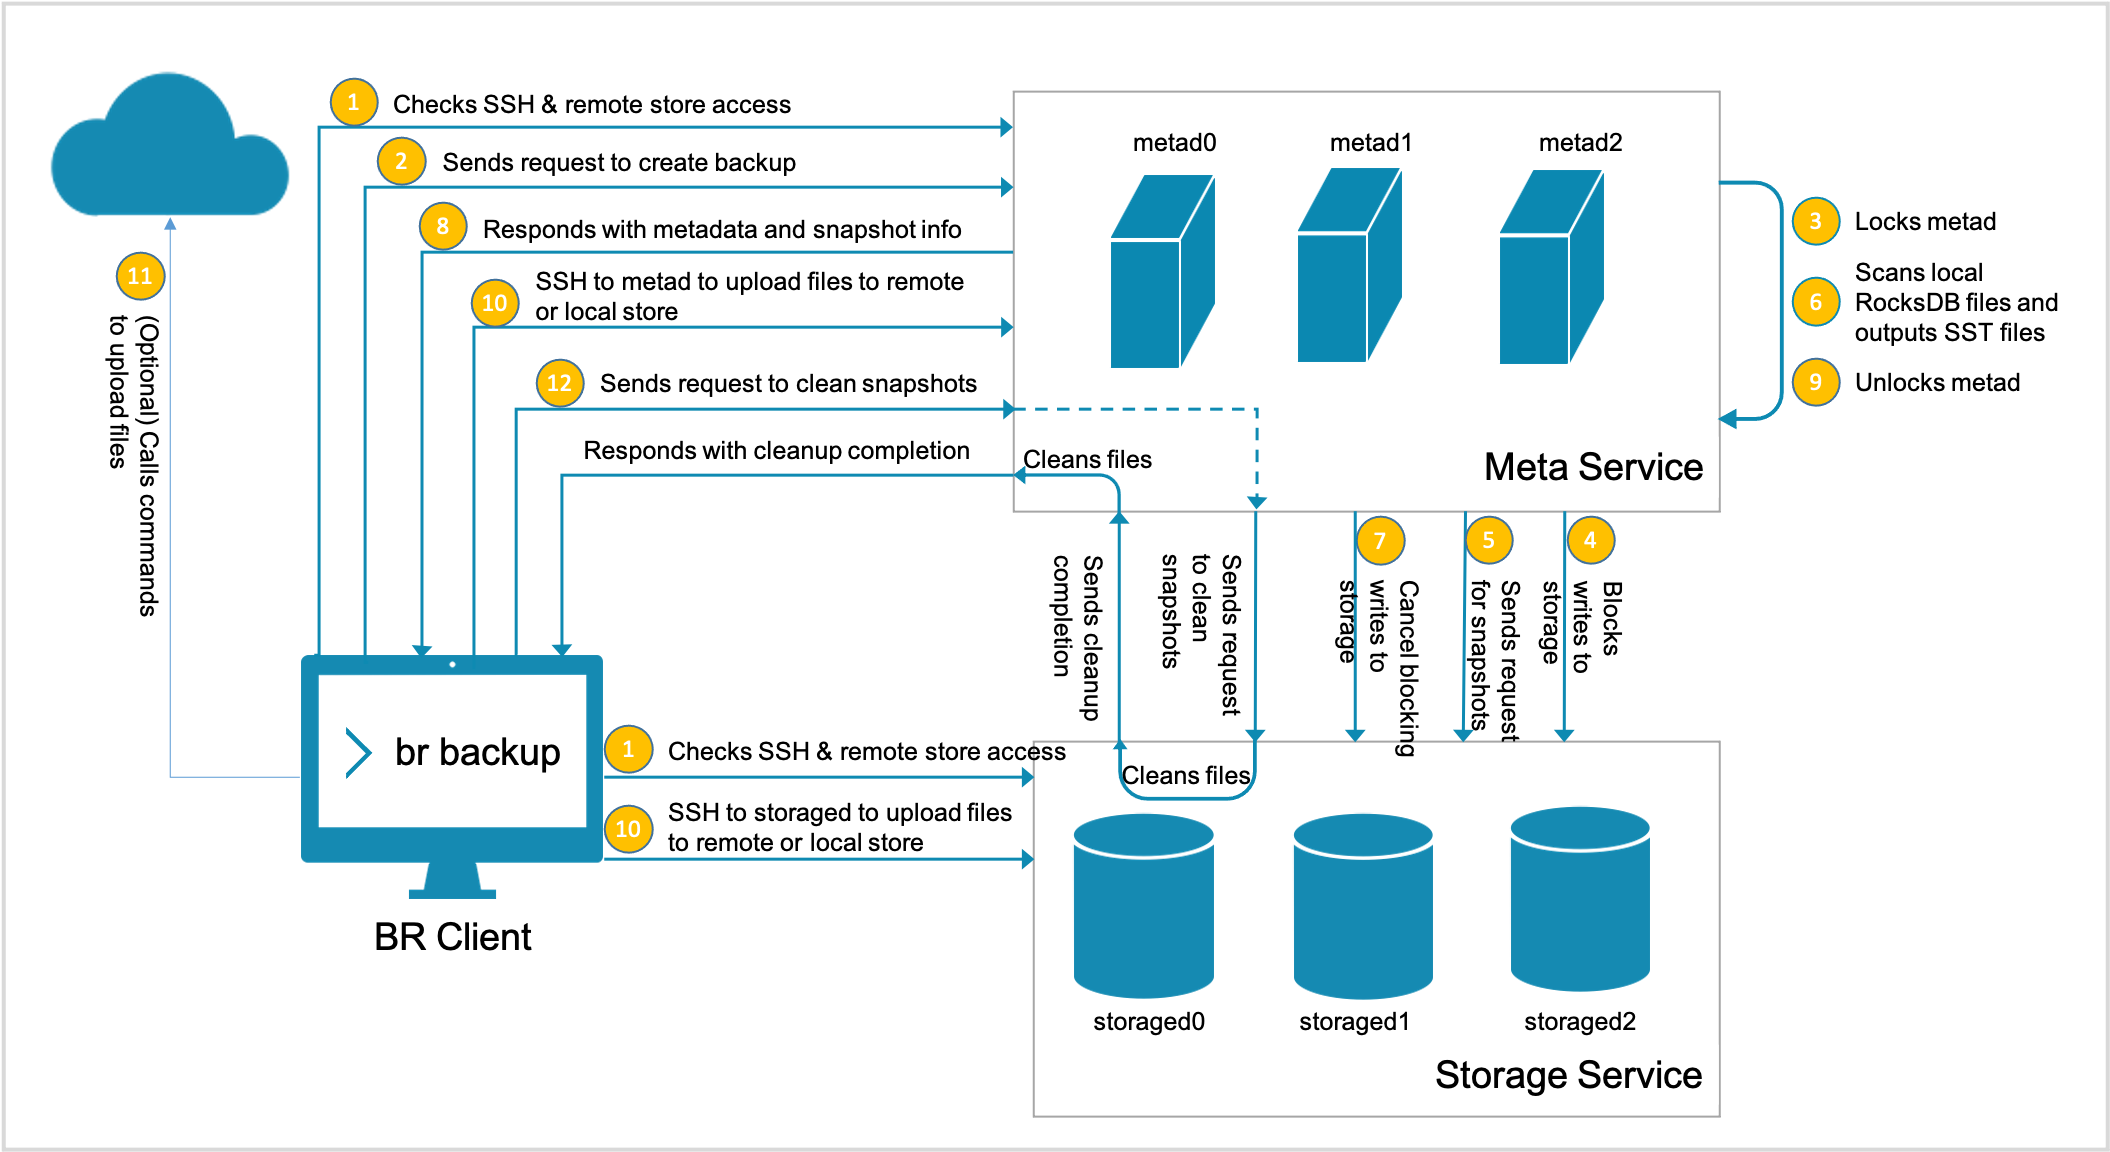
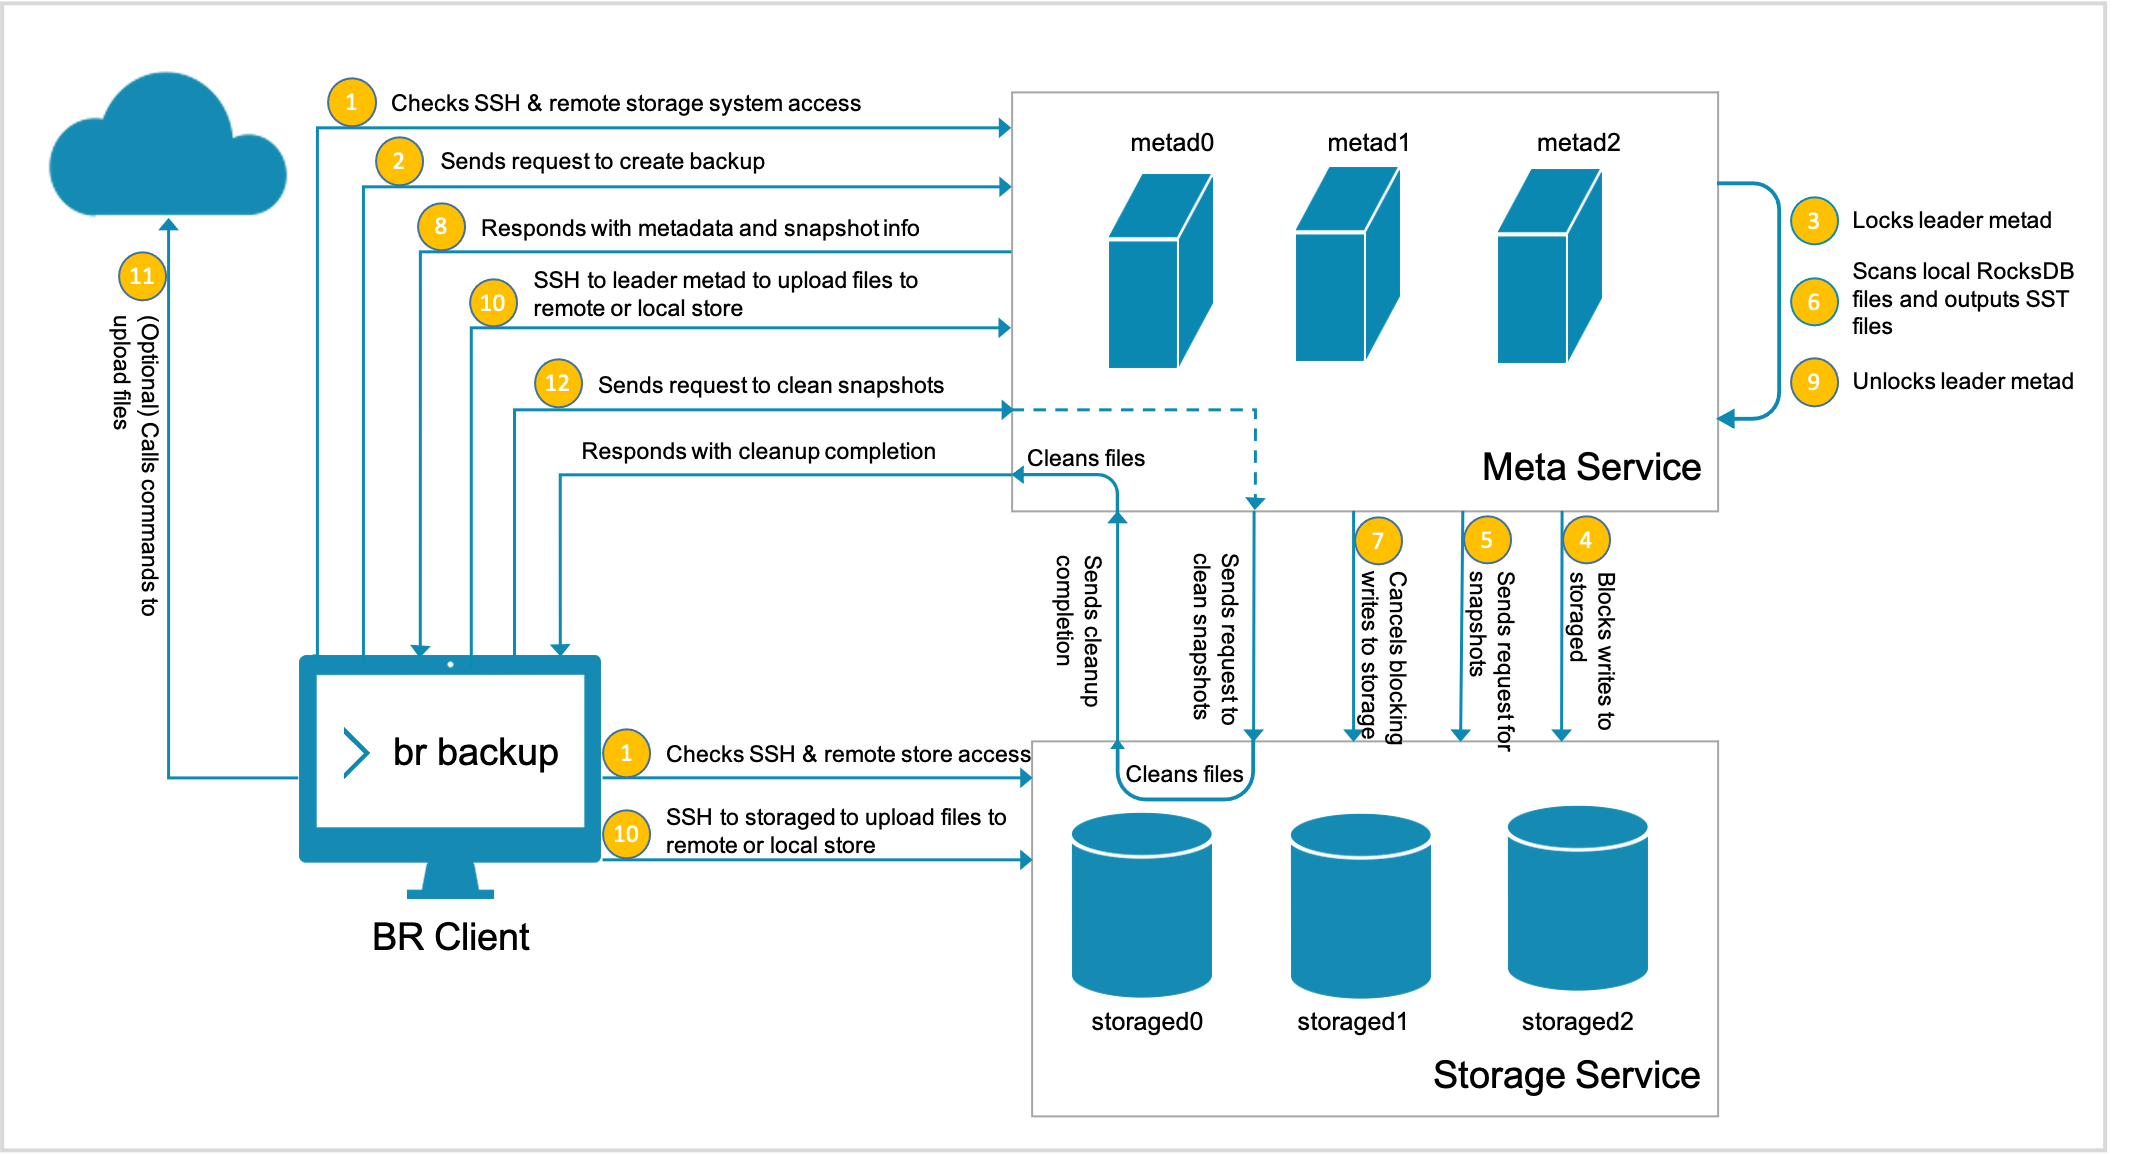
fixed monadbobo's comments

diff --git a/docs-2.0/7.data-security/2.backup-restore/1.what-is-br.md b/docs-2.0/7.data-security/2.backup-restore/1.what-is-br.md
@@ -21,6 +21,8 @@ Backup & Restore (BR in short) is a Command-Line Interface (CLI) tool for you to
 - Does not support the Nebula Graph services deployed with Docker Compose.
 
 - During the backup process, both DDL and DML statements in the specified graph spaces are blocked. We recommend that you do the operation within the low peak period of the business, for example, from 2:00 AM to 5:00 AM.
+  
+- The restoration process is performed OFFLINE.
 
 ## Implementation
 
@@ -33,30 +35,30 @@ This section introduces how backup and restoration are implemented in the BR.
 
 ### Backup
 
-To back up data, the BR sends a backup request to each metad process to trigger the backup process as follows:
+To back up data, the BR sends a backup request to the leader metad process to trigger the backup process as follows:
 
 1. The SSH login from the BR machine to the meta and the storage servers is verified. Besides, if a remote storage system such as Amazon S3 or Alibaba Cloud OSS is necessary, their client installation and configuration are verified.
 
 2. The BR sends a request to create backup files.
 
-3. The metad processes are locked.
+3. The leader metad process is locked.
    > **NOTE**: From now on, you cannot run any DDL statement of nGQL until Step 9.
 
-4. The metad processes block writing to the specified graph spaces.
+4. The leader metad process blocks writing to the specified graph spaces.
    > **NOTE**: From now on, you cannot run any DML statement of nGQL in the specified graph spaces until Step 7. But this process has no effect on the DQL statements in these graph spaces, and you can do whatever you want in other graph spaces.
 
-5. The metad processes send a request to the storaged processes for the snapshot file names.
+5. The leader metad process sends a request to the storaged processes for the snapshot file names.
 
-6. The metad processes scan local RocksDB files and output SST files.
+6. The leader metad process scans local RocksDB files and output SST files.
 
-7. The metad processes cancel blocking writing to the specified graph spaces.
+7. The leader metad process cancels blocking writing to the specified graph spaces.
    > **NOTE**: From now on, you can run DML statements in the specified graph spaces.
 
-8. The metad processes send responses to the BR with the metadata including:
+8. The leader metad process sends responses to the BR with the metadata including:
    - the thrift format, partition information of the graph spaces, and the Raft log commit ID of each partition, and
    - the snapshot information including the catalog of the snapshots of each storaged process, their SST file names of the meta server, and the backup file names.
 
-9. The metad processes are unlocked.
+9. The leader metad process is unlocked.
     > **NOTE**: From now on, you can run any DDL statement in the specified graph spaces.
 
 10. The account on the BR machine logs on via SSH to the meta server where the leader locates and to all the storage servers, and backs up files.
@@ -64,7 +66,7 @@ To back up data, the BR sends a backup request to each metad process to trigger 
 11. If Amazon S3 or Alibaba Cloud OSS is used, the BR calls commands to upload the files to the cloud storage system.
     > **NOTE**: This step causes massive disk reads. We recommend that a 10 Gigabit Network is applied. If a networking error occurs during this step, the backup process fails and you must do the backup operation again. For now, the backup process cannot be resumed from the broken point.
 
-12. The BR sends a request to clean the snapshots from meta servers and storage servers, and the backup process is done.
+12. The BR sends a request to clean the snapshots from meta server and storage servers, and the backup process is done.
   
 This figure shows how the backup is implemented.
 

diff --git a/docs-2.0/7.data-security/2.backup-restore/3.br-backup-data.md b/docs-2.0/7.data-security/2.backup-restore/3.br-backup-data.md
@@ -23,12 +23,12 @@ To back up data with the BR, do a check of these:
 
 - If you use Amazon S3 to store the backup files, make sure that the S3 CLI client is installed and configured on the meta servers, the storage servers, and the BR machine. For more information, see [Using Amazon S3 with CLI](https://docs.amazonaws.cn/en_us/cli/latest/userguide/cli-services-s3.html "Click to go to AWS website").
 
-- If you use Alibaba Cloud OSS to store the backup files, make sure that the ossutil is installed on the meta servers, the storage servers, and the BR machine. For more information, see [Download and install ossutil](https://www.alibabacloud.com/help/doc-detail/120075.htm#concept-303829 "Click to go to Alibaba Cloud website").
+- If you use Alibaba Cloud OSS to store the backup files, make sure that the ossutil is installed on the meta server, the storage servers, and the BR machine. For more information, see [Download and install ossutil](https://www.alibabacloud.com/help/doc-detail/120075.htm#concept-303829 "Click to go to Alibaba Cloud website").
   > **NOTE**: If ossutil64 is used, create a symbolic link from ossutil64 to ossutil. For example, run `ln -s /usr/local/bin/ossutil64 /usr/local/bin/ossutil`.
 
 - Create a directory with the same absolute path on the meta and the storage servers for the backup files and get the absolute path. In this example, `/home/user/backup/` is used.
 
-> **NOTE**: In the production environment, we recommend that you mount Network File System (NFS) storage to each meta and storage server for local backup or use S3 or OSS for remote backup. If the backup files are stored on the meta and the storage servers, you must manually move these backup files to a specified directory, which causes redundant data and troubles for maintenance.
+> **NOTE**: In the production environment, we recommend that you mount Network File System (NFS) storage to the meta and the storage servers for local backup or use S3 or OSS for remote backup. If the backup files are stored on the meta and the storage servers, you must manually move these backup files to a specified directory, which causes redundant data and troubles for maintenance.
 
 ## Procedure
 

diff --git a/docs-2.0/7.data-security/2.backup-restore/4.br-restore-data.md b/docs-2.0/7.data-security/2.backup-restore/4.br-restore-data.md
@@ -2,6 +2,8 @@
 
 If you use the BR to back up data, you can use it to restore the data to Nebula Graph. This article introduces how to use the BR to restore data from backup files.
 
+> **NOTE**: The restoration process is performed OFFLINE.
+
 ## Prerequisites
 
 To restore data with the BR, do a check of these:
